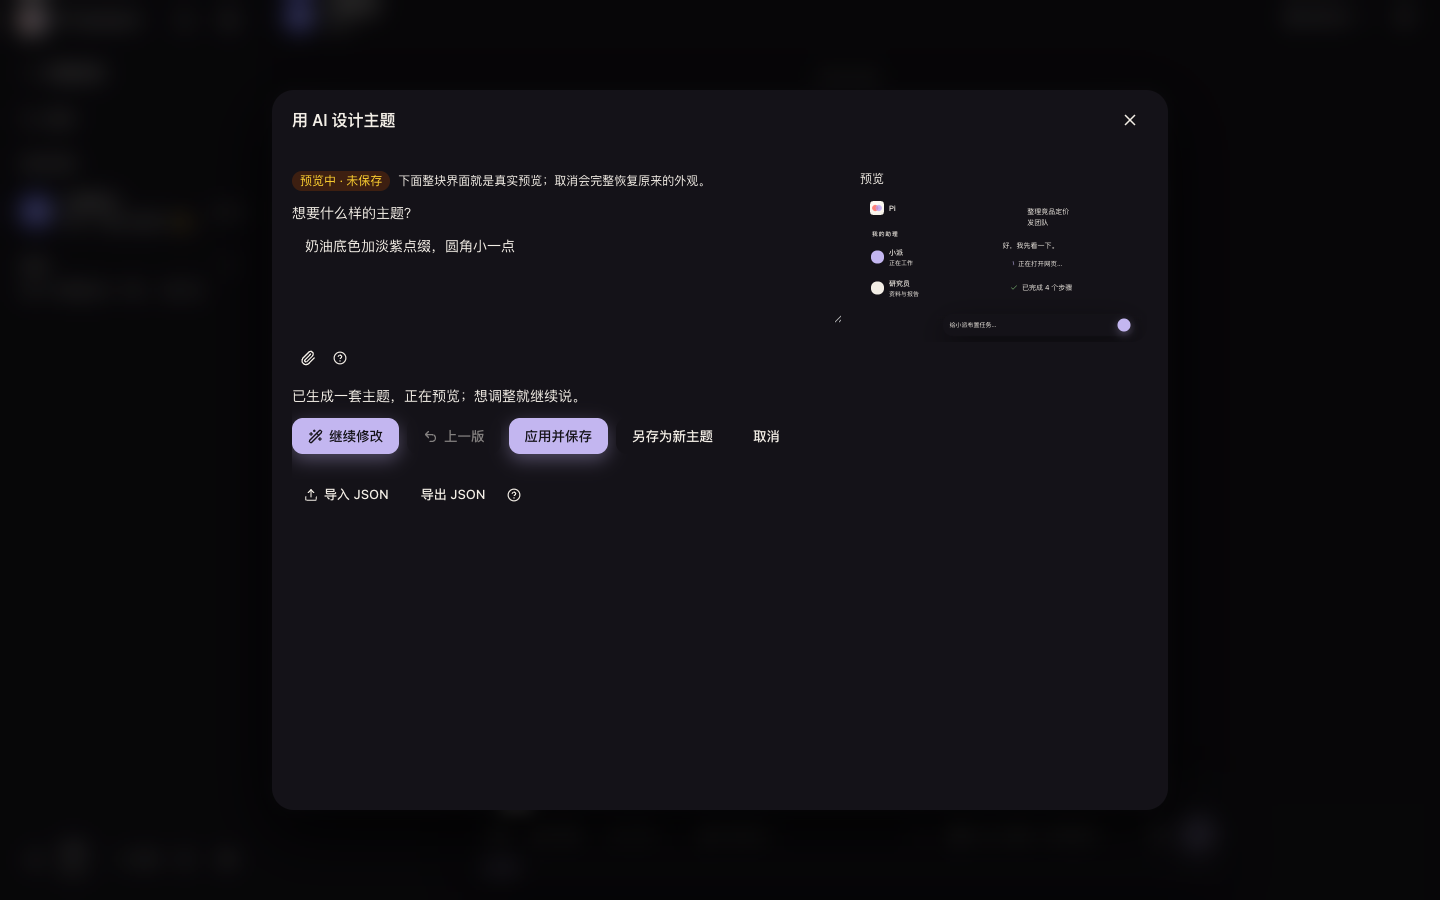
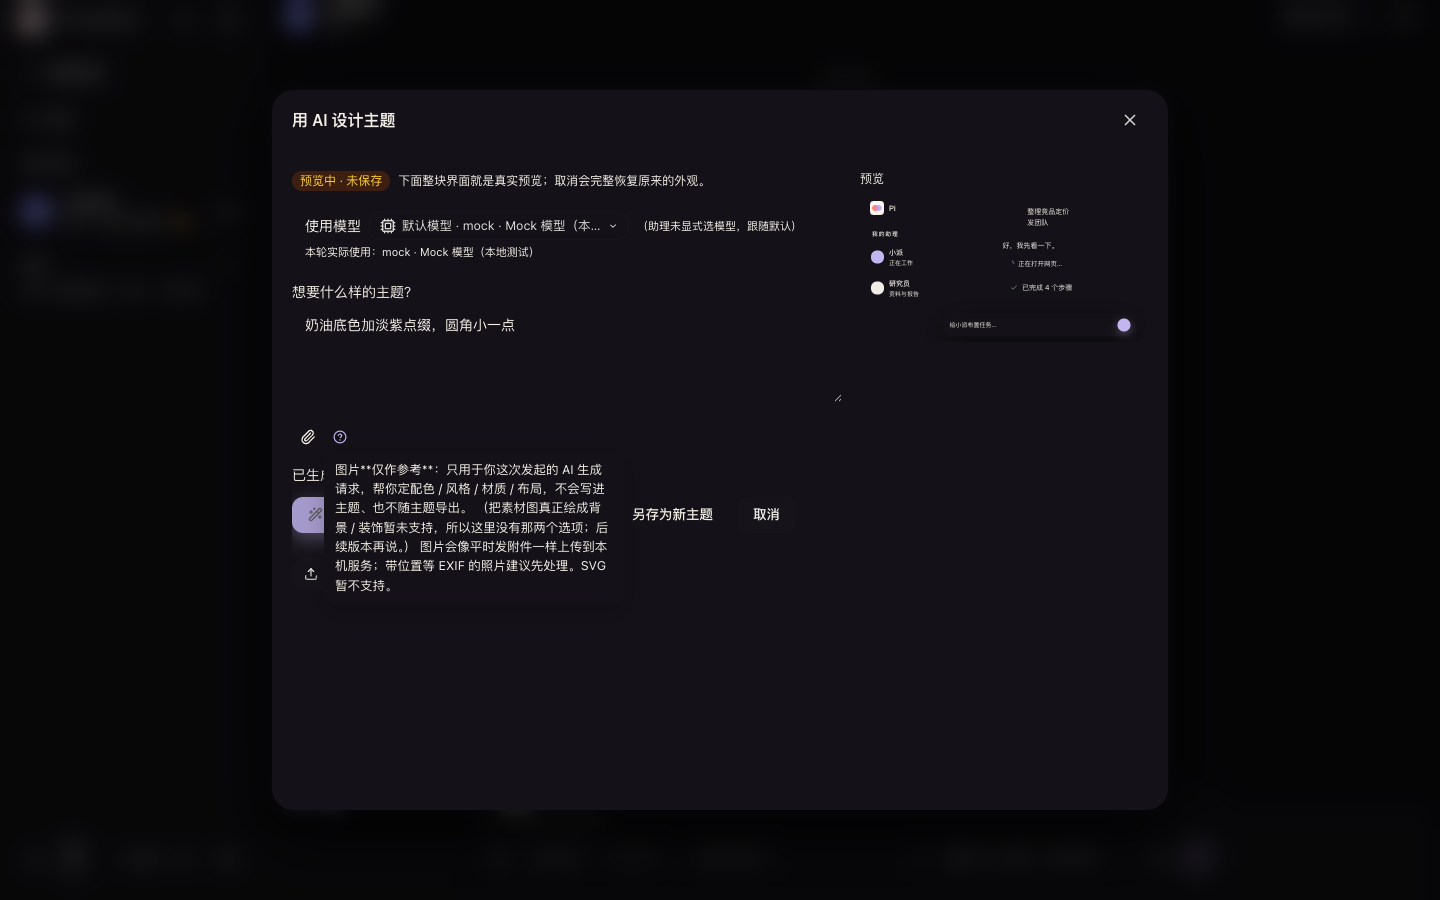
主题设计 UI 验证：改用安全 launcher（内存凭据+临时数据目录），断言「使用模型」默认跟随与菜单复用；补 390 截图

Changed region(s): [[0.1875, 0.4356, 0.5, 0.6533], [0.1875, 0.2178, 0.4062, 0.3733], [0.4688, 0.2489, 0.5312, 0.28]]

diff --git a/packages/server/test/theme-ai.test.ts b/packages/server/test/theme-ai.test.ts
@@ -358,6 +358,10 @@ test("显式选模型：同 id 不同 provider 只走选中的那个，结果带
 		assert.ok(r.model.name, "结果带回模型友好名");
 		assert.ok(mockB.seen.length >= 1, "选中的 B 渠道应收到请求");
 		assert.equal(mockA.seen.length, 0, "没选的 A 渠道不能收到任何请求");
+		// 用量按**实际选中的** provider/model 记账（不按助理主模型）。
+		const used = db.prepare("SELECT provider, model FROM usage_calls WHERE agent_id = ? ORDER BY ts DESC LIMIT 1").get("ta_sameid") as { provider: string; model: string } | undefined;
+		assert.equal(used?.provider, pB.id, "用量应记在选中的服务上");
+		assert.equal(used?.model, "theme-mock");
 	} finally {
 		mockA.close();
 		mockB.close();
